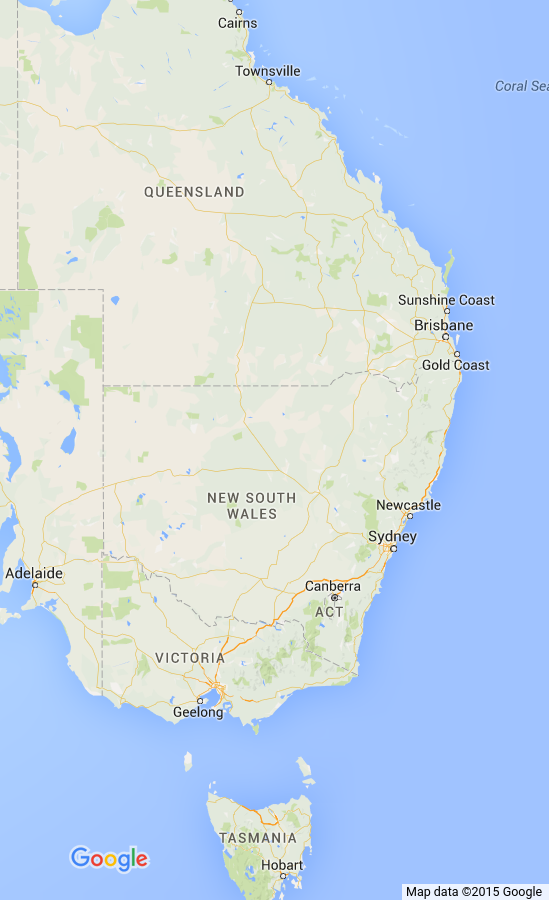
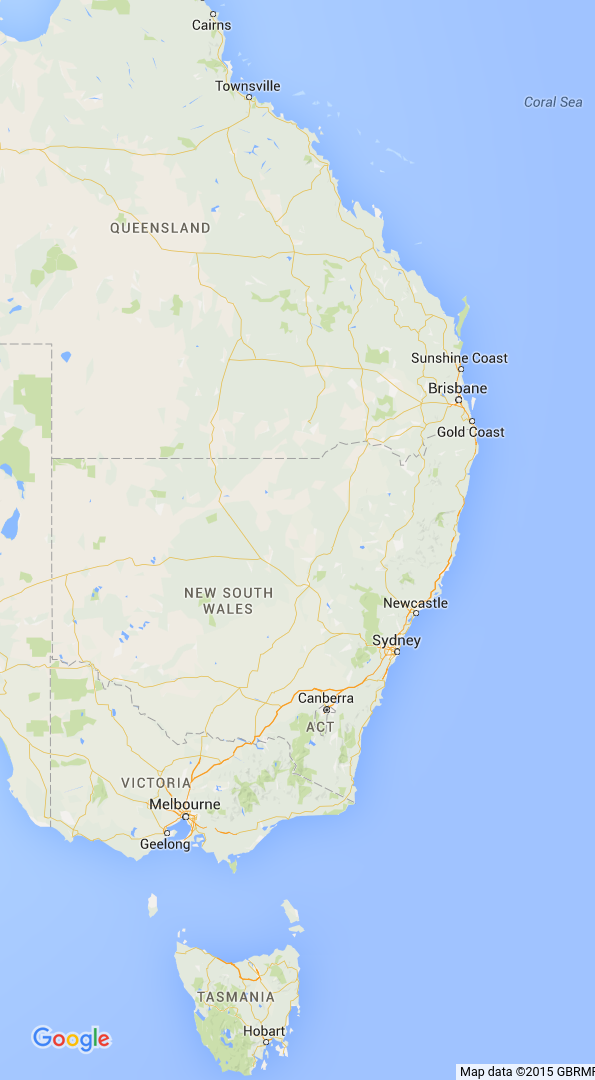
README links to blog post, update google map image

diff --git a/README.md b/README.md
@@ -1,113 +1,5 @@
 # Overview
 
-Demonstrate two Elasticsearch Geolocation features:
+This is the code repo for the blog post [Docker Elasticsearch v2 Geolocation Sort and Filter](http://rudijs.github.io/2015-10/docker-elasticsearch-v2-geolocation-sort-and-filter/)
 
-1. Sorting by Distance
-2. Geo Distance Filter
-
-Use Docker plus a few commands from a terminal.
-
-OS Ubuntu 14.04 plus Elasticsearch v2.0.0
-
-# Setup
-
-Clone the code repository and cd into it:
-
-- `git clone https://github.com/rudijs/elasticsearch-geolocation-demo.git`
-- `cd elasticsearch-geolocation-demo`
-
-Start an Elasticsearch Docker container.
-
-This command will download the official Elasticsearch v2 image from hub.docker.com and start a container instance:
-
-- `sudo docker run -d --name elasticsearch -v "$PWD/esdata":/usr/share/elasticsearch/data -p 9200:9200 elasticsearch:2.0.0 -Des.network.bind_host=0.0.0.0`
-
-<!-- todo: not working fully for elasticsearch v2
-Let's install the *elasticsearch-head* plugin so we'll have a web admin tool to see our data:
-
-- `sudo docker exec -it elasticsearch /usr/share/elasticsearch/bin/plugin install mobz/elasticsearch-head`
-
-Open a browser tab at [http://localhost:9200/_plugin/head/](http://localhost:9200/_plugin/head/)
--->
-
-# Create
-
-**Create a new Elasticsearch index**
-
-- `curl -XPUT http://localhost:9200/geo`
-
-<!-- curl -XDELETE http://localhost:9200/geo -->
-
-**Create a mapping on the new index for our data**
-
-- `curl -XPUT localhost:9200/geo/_mapping/place --data-binary @mapping_place.json`
-
-<!-- curl -XDELETE localhost:9200/geo/_mapping/place -->
-
-## Geo Location Data
-
-For this demostration we'll be using the East Coast of Australia from Cairns to Hobart.
-
-![Australian East Coast](australian_east_coast.png "Australian East Coast")
-
-**Add some 'places' to our index**
-
-- `curl -XPOST http://localhost:9200/geo/place/  --data-binary @place_brisbane.json`
-- `curl -XPOST http://localhost:9200/geo/place/  --data-binary @place_sydney.json`
-- `curl -XPOST http://localhost:9200/geo/place/  --data-binary @place_melbourne.json`
-
-# Search
-
-Search all data (no sorting or filters):
-
-- `curl -s -XGET http://localhost:9200/geo/place/_search`
-- **Results**: Brisbane, Sydney, Melbourne
-
-<!--
-curl -s -XGET http://localhost:9200/geo/place/_search | jq '.hits.hits[]._source.place'
-curl -s -XGET http://localhost:9200/geo/place/_search?q=melbourne | jq '.hits.hits[]._source.place'
--->
-
-Search and sort by distance:
-
-- `curl -s -XPOST http://localhost:9200/geo/place/_search --data-binary @query_distance_from_cairns.json`
-- **Results**: Brisbane, Sydney, Melbourne
-
-<!--
-- `curl -s -XPOST http://localhost:9200/geo/place/_search --data-binary @query_distance_from_cairns.json | jq '.hits.hits[]._source.place'`
--->
-
-- `curl -s -XPOST http://localhost:9200/geo/place/_search --data-binary @query_distance_from_hobart.json`
-- **Results**: Melbourne, Sydney, Brisbane
-
-<!--
-curl -s -XPOST http://localhost:9200/geo/place/_search --data-binary @query_distance_from_hobart.json | jq '.hits.hits[]._source.place'
--->
-
-- `curl -s -XPOST http://localhost:9200/geo/place/_search --data-binary @query_distance_from_canberra.json`
-- **Results**: Sydney, Melbourne, Brisbane
-
-
-<!--
-curl -s -XPOST http://localhost:9200/geo/place/_search --data-binary @query_distance_from_canberra.json | jq '.hits.hits[]._source.place'
--->
-
-Search, sort and filter by distance:
-
-- `curl -s -XPOST http://localhost:9200/geo/place/_search --data-binary @query_distance_from_hobart_filter_1500km.json`
-- **Results**: Melbourne, Sydney
-
-<!--
-curl -s -XPOST http://localhost:9200/geo/place/_search --data-binary @query_distance_from_hobart_filter_1500km.json | jq '.hits.hits[]._source.place`
--->
-
-<!--
-Cairns, Queensland, Australia
--16.917506, 145.760665
-
-Hobart, Tasmania, Australia
--42.881856, 147.323999
-
-Canberra, Australian Capital Territory, Australia
--35.282152, 149.125223
--->
+Please follow that link where you can find a full and complete step by step instructions.
